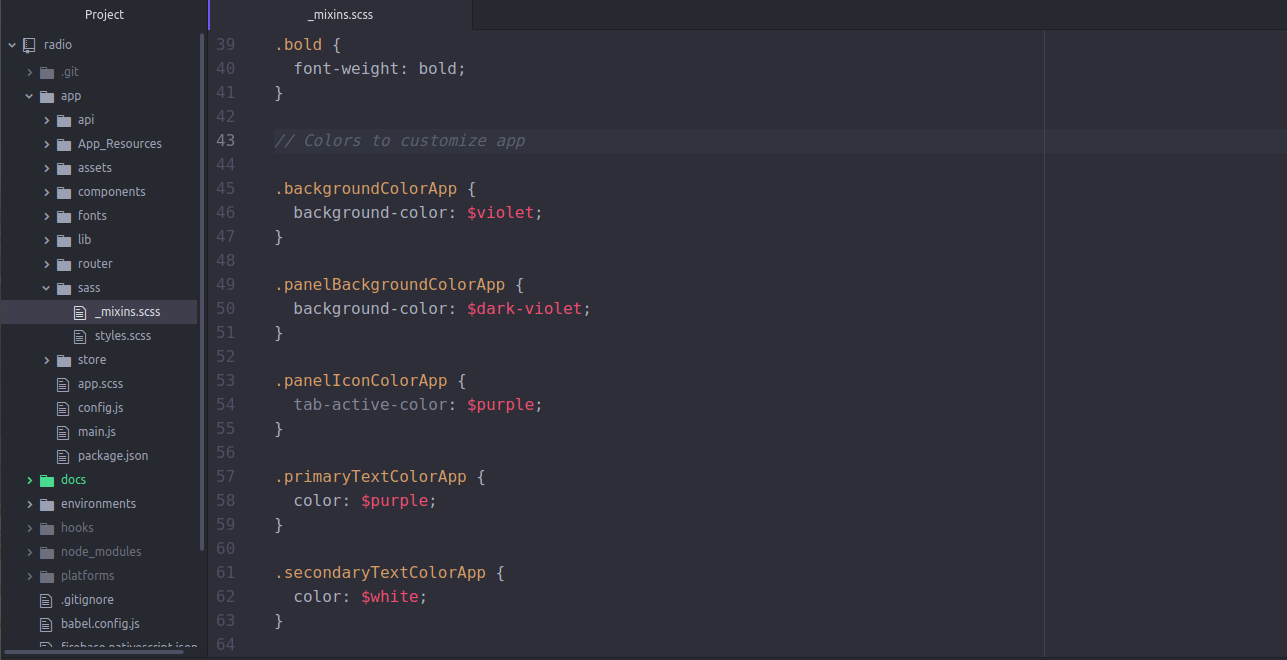
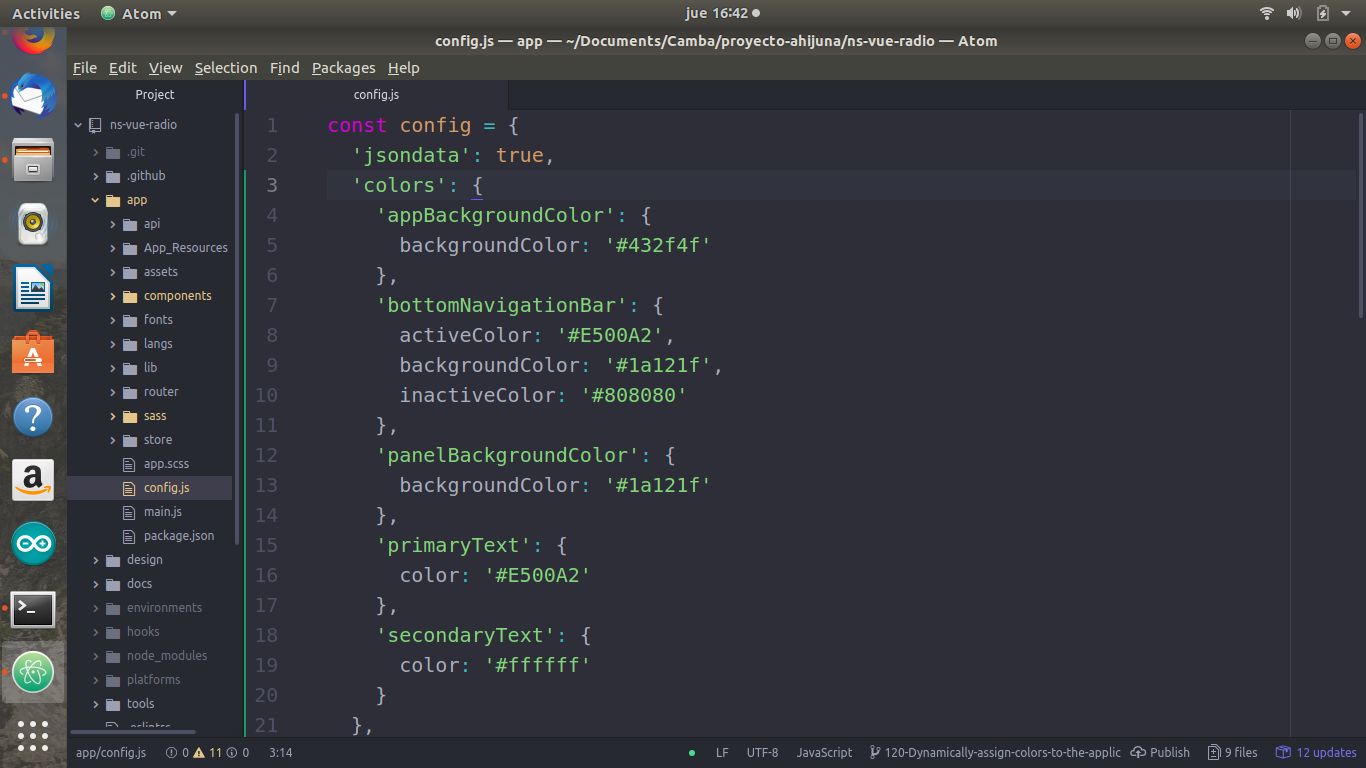
updated the guide to change app colors

diff --git a/docs/Guide-to-change-app-colors.md b/docs/Guide-to-change-app-colors.md
@@ -1,42 +1,26 @@
 ## How to change app colors
 
-* Go to `app/sass/_mixins.scss`
+![03](./images/Guide-to-change-app-colors/03s.png)![04](./images/Guide-to-change-app-colors/04s.png)![05](./images/Guide-to-change-app-colors/05s.png)![06](./images/Guide-to-change-app-colors/06s.png)![07](./images/Guide-to-change-app-colors/07s.png)
+
+* Go to `app/config`
 
 ![01](./images/Guide-to-change-app-colors/01s.png)
 
-* From here you can change the app background color by changing the value of `backgroundColorApp`
-
-![02](./images/Guide-to-change-app-colors/02s.png)
-
-![03](./images/Guide-to-change-app-colors/03s.png)![04](./images/Guide-to-change-app-colors/04s.png)![05](./images/Guide-to-change-app-colors/05s.png)![06](./images/Guide-to-change-app-colors/06s.png)![07](./images/Guide-to-change-app-colors/07s.png)
-
-* You can add a new color:
-  - Go to `app/sass/styles.scss`
-![08](./images/Guide-to-change-app-colors/08s.png)
-
-  - Add the new color, ideally in the color section
-
-![09](./images/Guide-to-change-app-colors/09s.png)
-
-* Go to `app/sass/_mixins.scss` and change the app background color for the new color:
+* From here you can change the app background color by changing the value of `appBackgroundColor`
 
 ![10](./images/Guide-to-change-app-colors/10s.png)
 
 ![11](./images/Guide-to-change-app-colors/11s.png)![12](./images/Guide-to-change-app-colors/12s.png)![13](./images/Guide-to-change-app-colors/13s.png)![14](./images/Guide-to-change-app-colors/14s.png)![15](./images/Guide-to-change-app-colors/15s.png)
 
-* You can change the app panel background color by changing the value of `panelBackgroundColorApp`
+* You can change the app panel background color by changing the value of `panelBackgroundColor`
 
 ![16](./images/Guide-to-change-app-colors/16s.png)
 
-![17](./images/Guide-to-change-app-colors/17s.png)
-
 ![18](./images/Guide-to-change-app-colors/18s.png)![19](./images/Guide-to-change-app-colors/19s.png)![20](./images/Guide-to-change-app-colors/20s.png)![21](./images/Guide-to-change-app-colors/21s.png)![22](./images/Guide-to-change-app-colors/22s.png)
 
-* You can change the app panel icon background color by changing the value of `panelIconBackgroundColorApp`
+* You can change the app panel icon background color by changing the value of `bottomNavigationBar`
 
 ![23](./images/Guide-to-change-app-colors/23s.png)
-
-![24](./images/Guide-to-change-app-colors/24s.png)
 
 ![25](./images/Guide-to-change-app-colors/25s.png)
 
@@ -52,14 +36,10 @@
 
 ![30](./images/Guide-to-change-app-colors/30s.png)
 
-![31](./images/Guide-to-change-app-colors/31s.png)
-
 ![32](./images/Guide-to-change-app-colors/32s.png)![33](./images/Guide-to-change-app-colors/33s.png)![34](./images/Guide-to-change-app-colors/34s.png)![35](./images/Guide-to-change-app-colors/35s.png)![36](./images/Guide-to-change-app-colors/36s.png)
 
-* And finally, you can change the app secondary text color by changing the value of `secondaryTextColorApp`
+* And finally, you can change the app secondary text color by changing the value of `primaryText`
 
 ![37](./images/Guide-to-change-app-colors/37s.png)
-
-![38](./images/Guide-to-change-app-colors/38s.png)
 
 ![39](./images/Guide-to-change-app-colors/39s.png)![40](./images/Guide-to-change-app-colors/40s.png)![41](./images/Guide-to-change-app-colors/41s.png)![42](./images/Guide-to-change-app-colors/42s.png)![43](./images/Guide-to-change-app-colors/43s.png)
